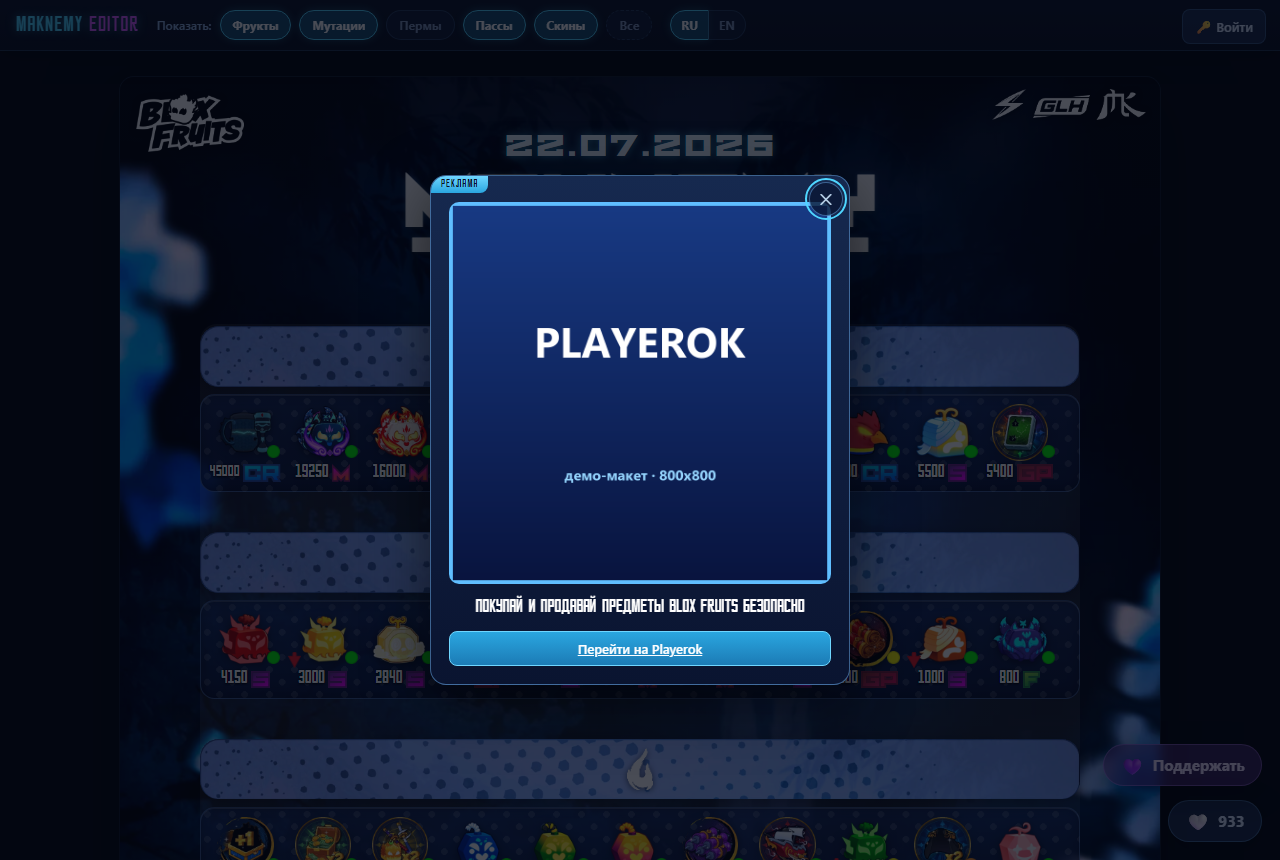
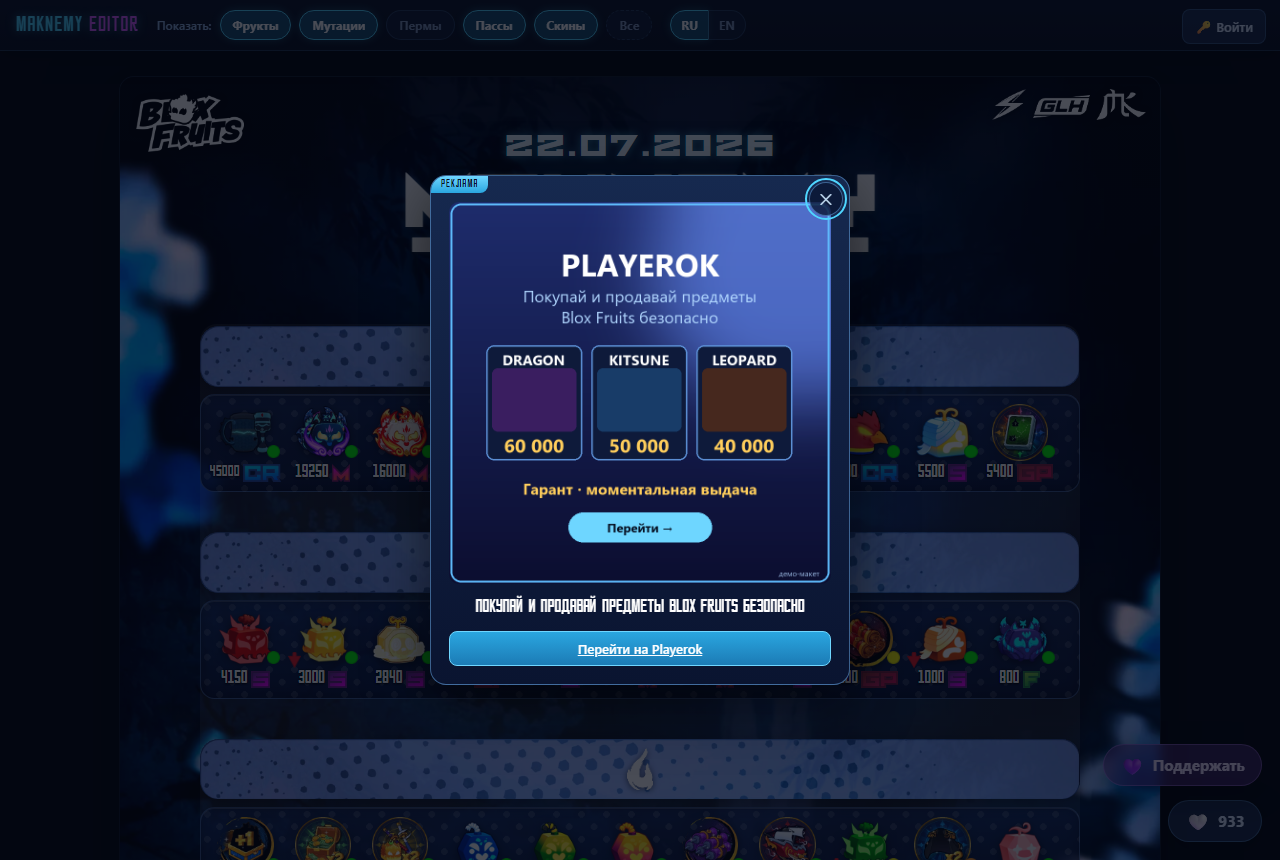
fix: keep the floating buttons off the right side rail
The donate button is wider than the like button (it carries a label) and
sits higher, so on a 1600x800 window its top edge landed at 684 while the
rail bottom was 696, and their x ranges overlapped - it covered the lower
part of the paid placement. The min-height gate of 760 was derived from
the like button alone and missed this.

Raising the threshold to ~820 would have fixed it by hiding the rails from
everyone on a laptop, which trades a real placement for a layout problem.
Instead, while rails are shown, both buttons move inside the poster
column. Measured across 1460x760 through 2560x1440: no overlap anywhere,
with 40px clearance at the tightest.

Demo creatives redrawn, and this time they obey the media kit's own rule -
nothing under 40px of type, because the strip renders at about 29% on a
phone and the old 15px card labels came out at 4px. Screenshots that
break the spec argue against it.

Adds phone screenshots: banner in the feed, popup, and a close-up of the
banner at phone width. The media kit now shows what a correct creative
looks like at the size it will actually be seen.

Changed region(s): [[0.375, 0.2116, 0.6562, 0.6349], [0.3438, 0.6651, 0.6562, 0.6953]]

diff --git a/public_html/mediakit.html b/public_html/mediakit.html
@@ -6,7 +6,7 @@
 <meta name="color-scheme" content="dark" />
 <meta name="robots" content="noindex,nofollow" />
 <title>Реклама на Maknemy Tier List — форматы и условия</title>
-<link rel="stylesheet" href="css/mediakit.css?v=1" />
+<link rel="stylesheet" href="css/mediakit.css?v=2" />
 </head>
 <body>
 
@@ -119,18 +119,44 @@
     <div class="slot-txt">
       <h3>На телефоне</h3>
       <p>
-        Больше половины аудитории приходит с телефона. Карусель и окно там
-        работают полностью, борта — нет.
+        Больше половины аудитории приходит с телефона. Баннер и окно там
+        работают полностью, борта — нет. Кнопок на телефоне нет вовсе:
+        баннеры листаются пальцем.
       </p>
       <p class="warn">
         Важно для макета: на телефоне баннер показывается шириной около 356 px,
         то есть примерно 30 % от размера макета. Мелкий текст станет нечитаемым.
         <b>Минимальный кегль в макете 1200 × 300 — 40 px.</b>
+        Демо-макеты на скриншотах сделаны по этому правилу — сравните, как
+        читается текст.
       </p>
     </div>
-    <figure class="slot-img narrow">
-      <img src="assets/mediakit/placement-mobile.png" alt="Рекламная карусель на телефоне" loading="lazy" />
+    <figure class="slot-img">
+      <div class="phones">
+        <div>
+          <img src="assets/mediakit/placement-mobile.png" alt="Рекламный баннер в тирлисте на телефоне" loading="lazy" />
+          <span>баннер в ленте</span>
+        </div>
+        <div>
+          <img src="assets/mediakit/placement-mobile-popup.png" alt="Всплывающее рекламное окно на телефоне" loading="lazy" />
+          <span>всплывающее окно</span>
+        </div>
+      </div>
       <figcaption>iPhone, 390 px</figcaption>
+    </figure>
+  </article>
+
+  <article class="slot-card">
+    <div class="slot-txt">
+      <h3>Как баннер выглядит вблизи на телефоне</h3>
+      <p>
+        Тот же макет 1200 × 300, ужатый до ширины экрана. Второй и третий
+        баннер открываются свайпом влево.
+      </p>
+    </div>
+    <figure class="slot-img">
+      <img src="assets/mediakit/placement-mobile-strip.png" alt="Рекламный баннер крупным планом на телефоне" loading="lazy" />
+      <figcaption>Крупный план баннера на телефоне</figcaption>
     </figure>
   </article>
 </section>

diff --git a/public_html/css/styles.css b/public_html/css/styles.css
@@ -1035,6 +1035,16 @@ body.protected img { -webkit-user-drag: none; }
   /* 520 = половина сцены (1040), 24 — зазор до постера. */
   .ptn-rail-l { left:  calc(50% - 520px - 24px - 160px); }
   .ptn-rail-r { right: calc(50% - 520px - 24px - 160px); }
+
+  /* Плавающие кнопки прижаты к правому краю ОКНА, а правый борт — тоже
+     справа. На высоком экране они расходятся по вертикали, но на 1600x800
+     «Поддержать» (она шире лайка из-за подписи и висит выше) наезжала на
+     низ борта. Пока борта показаны, уводим кнопки внутрь постера: там они
+     заведомо левее борта на любой высоте окна, и лечить это высотой
+     медиазапроса не приходится — иначе борта пришлось бы прятать у всех,
+     у кого экран ниже ~820px, а это заметная доля ноутбуков.
+     Правый край кнопки встаёт на 16px внутрь постера. */
+  .like-fab, .donate-fab { right: calc(50% - 520px + 16px); }
 }
 .ptn-rail img {
   display: block;

diff --git a/public_html/css/mediakit.css b/public_html/css/mediakit.css
@@ -83,6 +83,10 @@ section { padding: 40px 0; border-top: 1px solid var(--edge); }
   background: #05091f;
 }
 .slot-img.narrow img { max-width: 300px; margin: 0 auto; }
+/* Два телефона рядом: экран в ленте и то же самое со всплывающим окном. */
+.phones { display: flex; gap: 14px; justify-content: center; }
+.phones > div { flex: 1 1 0; min-width: 0; text-align: center; }
+.phones span { display: block; color: var(--muted); font-size: 12px; margin-top: 6px; }
 .slot-img figcaption { color: var(--muted); font-size: 12px; margin-top: 8px; text-align: center; }
 .spec-line {
   margin-top: 12px; padding: 8px 12px;

diff --git a/public_html/index.html b/public_html/index.html
@@ -60,7 +60,7 @@
 <link rel="icon" href="/favicon.ico" sizes="16x16 32x32 48x48" />
 <link rel="icon" type="image/png" href="/assets/favicon.png?v=2" sizes="256x256" />
 <link rel="apple-touch-icon" href="/apple-touch-icon.png" />
-<link rel="stylesheet" href="css/styles.css?v=40" />
+<link rel="stylesheet" href="css/styles.css?v=41" />
 
 <!-- Yandex.Metrika counter -->
 <script type="text/javascript">
